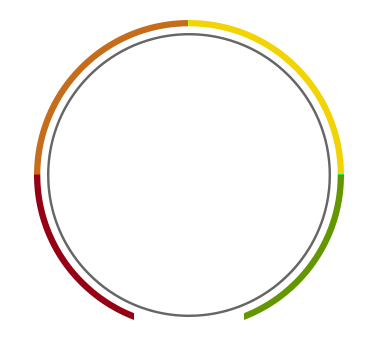
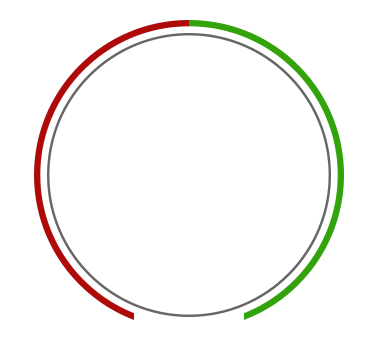
New indicator design + network connection detection

Changed region(s): [[0.0875, 0.0573, 0.9337, 0.9169]]

diff --git a/PVSystem/main.qml b/PVSystem/main.qml
@@ -125,9 +125,28 @@ ApplicationWindow {
                 source: "images/indicator_slide.png"
 
                 Indicator{
+                    id: spinningIndicator
                     posx: centerStatus.width/2
-                    posy: centerStatus.height/2
+                    posy: centerStatus.height/4 + 50
                 }
+
+                Timer{
+                    id: updatebar
+                    repeat: true
+                    interval: 1500
+                    running: true
+                    //will get the past position and new position
+                    onTriggered:{
+
+                        spinningIndicator.posangle = 360 * emonvars.getPosition()
+                        spinningIndicator.watts = emonvars.getValue(2)
+                        //updating info values and graph
+                        infoPage.updateValues()
+                        infoPage.updateGraph()
+
+                    }
+                }
+
             }
         }
 
@@ -139,45 +158,6 @@ ApplicationWindow {
             width: window.width/3
             model:["Current Inverter Power", "Consume Status"]
 
-        }
-
-        //gradient status bar indicating current PV status
-        PVStatusBar{
-            id: pvstatus
-            xpos: 0
-            ypos: window.height/4
-            w: window.width - (window.width/10)*2
-            h: window.height/2 - (window.height/15)*2
-            indicatorw: w/7
-            //standard position
-            initpos: pvstatus.w * 0.5 - pvstatus.indicatorw/2
-            pastpos: initpos
-            indicatorpos: initpos
-            anchors.horizontalCenter: parent.horizontalCenter
-
-            //updating the indicator every 2 seconds
-            Timer{
-                id: updatebar
-                repeat: true
-                interval: 2000
-                running: true
-                //will get the past position and new position
-                onTriggered:{
-                    if(indicatorMode.currentText == "Current Inverter Power"){
-                        parent.pastpos = pvstatus.indicatorpos
-                        parent.indicatorpos = pvstatus.w * emonvars.getPosition() - pvstatus.indicatorw/2
-                    }
-                    else if(indicatorMode.currentText == "Consume Status"){
-                        parent.pastpos = 0
-                        parent.indicatorpos = pvstatus.w * emonvars.getConsumePosition(pvemu.generateCurrentPower()) - pvstatus.indicatorw/2
-                    }
-
-                    //updating info values and graph
-                    infoPage.updateValues()
-                    infoPage.updateGraph()
-
-                }
-            }
         }
         */
 

diff --git a/PVSystem/StatusBar.qml b/PVSystem/StatusBar.qml
@@ -52,13 +52,32 @@ Item {
             height: h
             color: "#636265"
 
+            Image{
+                id: wifi
+                source:"images/wifi.png"
+                height: statBar.height - 5
+                width: height
+                anchors.verticalCenter: parent.verticalCenter
+                anchors.right: parent.right
+                anchors.margins: 10
+                visible:{
+                    if(networkvars.getIP() === "")
+                        false
+                    else
+                        true
+                }
+            }
+
+
             Label{
                 id: currentTime
-                anchors.centerIn: parent
+                anchors.verticalCenter: parent.verticalCenter
+                x: wifi.x - width - 10
                 text: Qt.formatDateTime(new Date(), "HH:mm:ss a")
                 color: "white"
-                font.pixelSize: parent.height - 5*2
+                font.pixelSize: parent.height/2
             }
+
 
         }
 

diff --git a/PVSystem/Indicator.qml b/PVSystem/Indicator.qml
@@ -32,26 +32,26 @@ Item {
     property int posx
     property int posy
     property int posangle: 0
+    property int watts: 0
 
-    Timer{
-        repeat: true
-        interval: 100
-        running: true
-        //will get the past position and new position
-        onTriggered:{
-
-            posangle = posangle+3
-
-        }
-    }
 
     Image{
+        id: ppointer
         source: "images/pointer.png"
         x: posx
         y: posy
-        transform: Rotation{origin.x: 13; origin.y: 30; angle: posangle}
+        transform: Rotation{origin.x: 11; origin.y: 55; angle: posangle}
+    }
 
-
+    Label{
+        id: pointerLabel
+        text: watts + " W"
+        color: "#636265"
+        anchors.horizontalCenter: centerStatus.horizontalCenter
+        y: posy*1.85
+        x: posx - width/2
+        font.pixelSize: 25
+        font.bold: true
     }
 
 }
